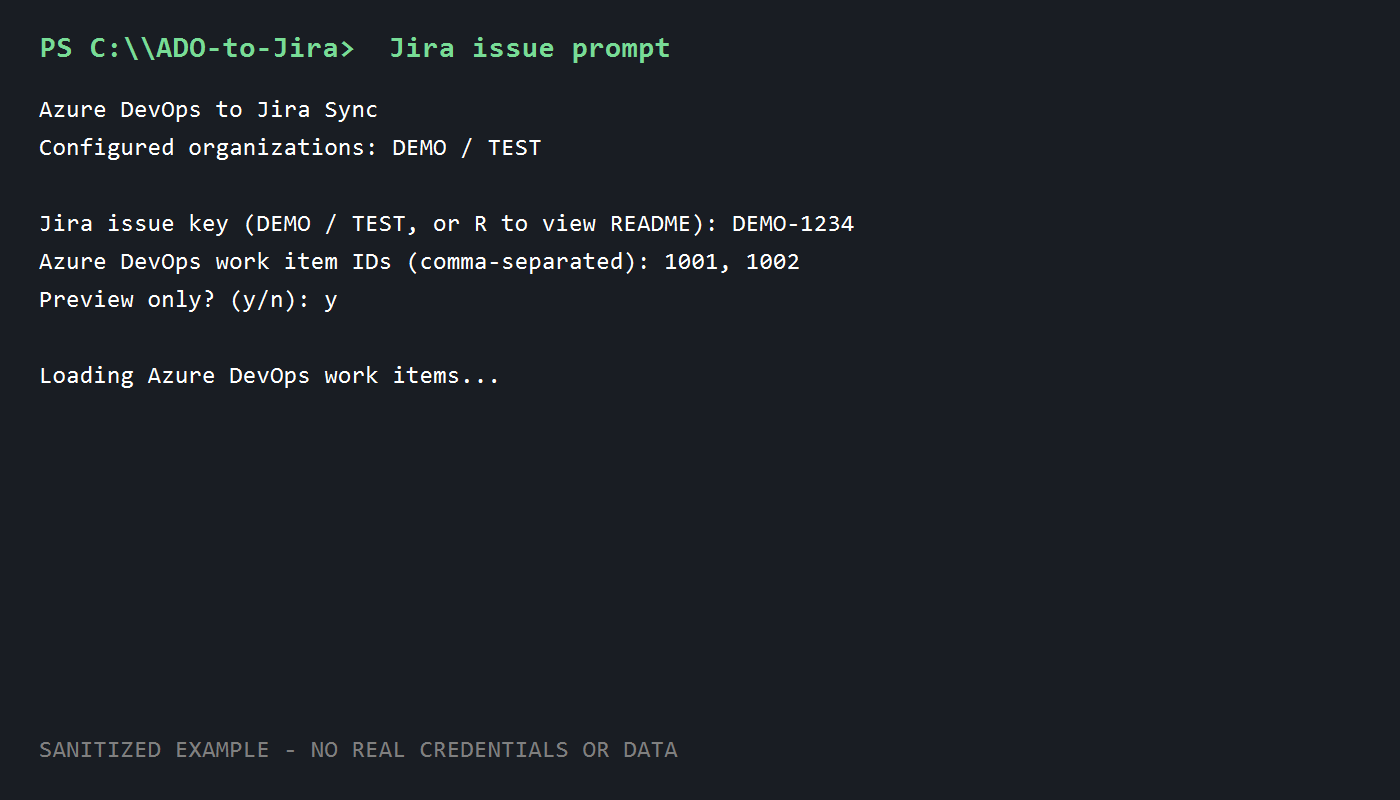
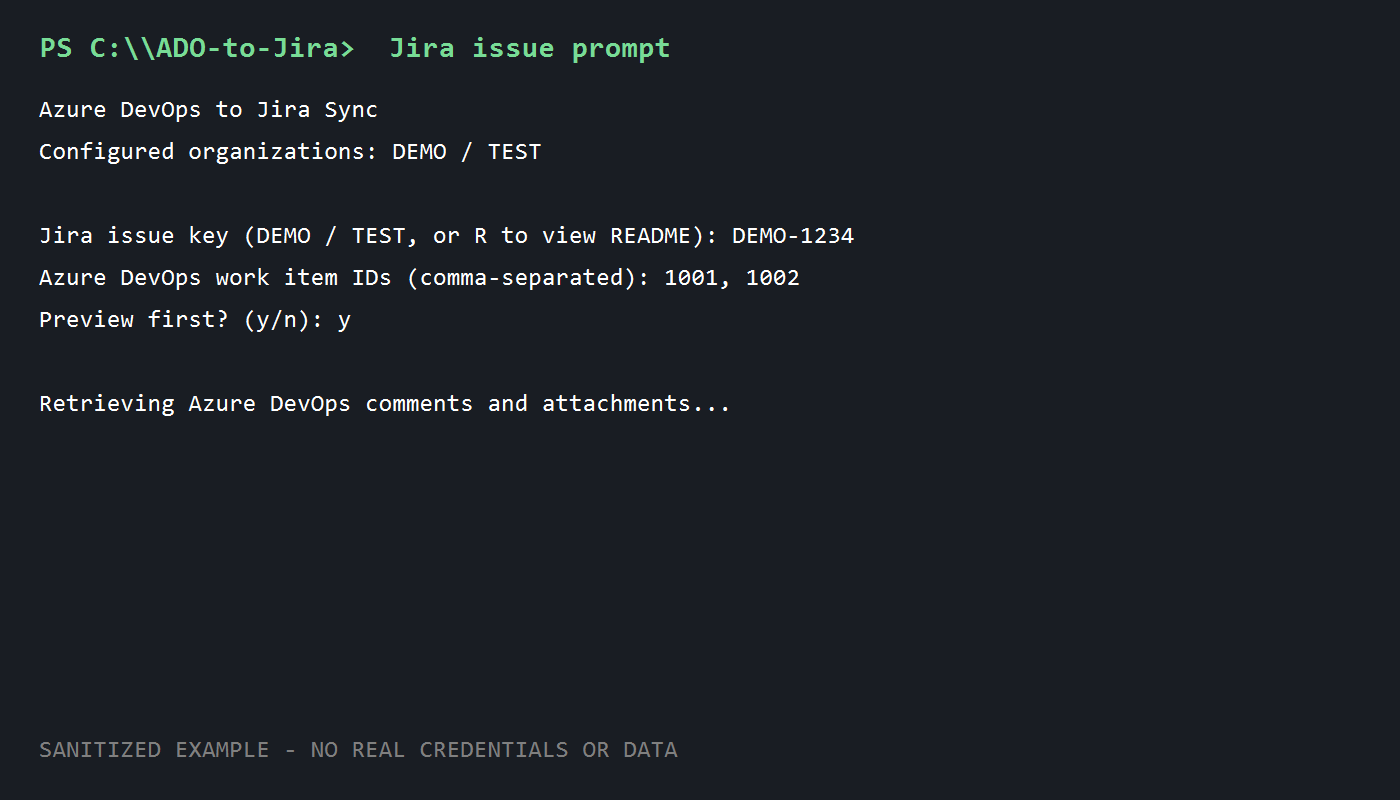
Add Windows launcher and enhance preview functionality in sync scripts

Changed region(s): [[0.0307, 0.25, 0.6143, 0.4062], [0.0307, 0.4375, 0.4914, 0.5312], [0.0307, 0.1562, 0.3993, 0.2188]]

diff --git a/ADO to JIRA/clean_ado_to_jira_sync.py b/ADO to JIRA/clean_ado_to_jira_sync.py
@@ -583,7 +583,7 @@ def main():
                 "pat": get_required_environment_variable(pat_env_var),
             }
         )
-    preview_only = input("Preview only? (y/n): ").strip().lower() in {"y", "yes"}
+    preview_first = input("Preview first? (y/n): ").strip().lower() in {"y", "yes"}
 
     comments = []
     attachments = []
@@ -671,11 +671,10 @@ def main():
     print(f"Target Jira issue: {jira_issue_key}")
     if failures:
         print(f"Encountered {len(failures)} retrieval failure(s).")
-    if preview_only:
-        print("Preview only: no Jira comments or attachments will be changed.")
-        return
+    if preview_first:
+        print("Preview complete. No Jira changes have been made yet.")
 
-    if input("Continue with Jira updates? (y/n): ").strip().lower() not in {"y", "yes"}:
+    if input("Continue posting to Jira? (y/n): ").strip().lower() not in {"y", "yes"}:
         print("Cancelled; no Jira updates were made.")
         return
 

diff --git a/ADO to JIRA/README.md b/ADO to JIRA/README.md
@@ -145,7 +145,25 @@ From the folder containing the script:
 python clean_ado_to_jira_sync.py
 ```
 
-The script will ask for the Jira issue key. Enter the issue key for one of the configured prefixes.
+### Use the automatic Windows launcher
+
+Double-click `ADO to Jira Sync.cmd` to launch the application. The launcher prefers Windows PowerShell and falls back to a Command Prompt loop if PowerShell is unavailable. It:
+
+- uses `powershell.exe` when it is available
+- uses the local `ado_to_jira_sync.py` working copy when it is available
+- falls back to `clean_ado_to_jira_sync.py` for a public-safe checkout
+- keeps the console open after each run
+- starts the first prompt again after the run finishes
+
+You can also start it from PowerShell or Command Prompt:
+
+```powershell
+& ".\ADO to Jira Sync.cmd"
+```
+
+The launcher does not contain credentials. Tokens continue to come from Windows environment variables.
+
+The script will ask for the Jira issue key and work item IDs. It then asks `Preview first?` and displays the number of comments, attachments, and retrieval failures found. After reviewing the preview, answer `Continue posting to Jira?` with `Y` to make the Jira changes or `N` to cancel.
 
 You can also type `R` at the Jira key prompt to view this README from the script.
 
